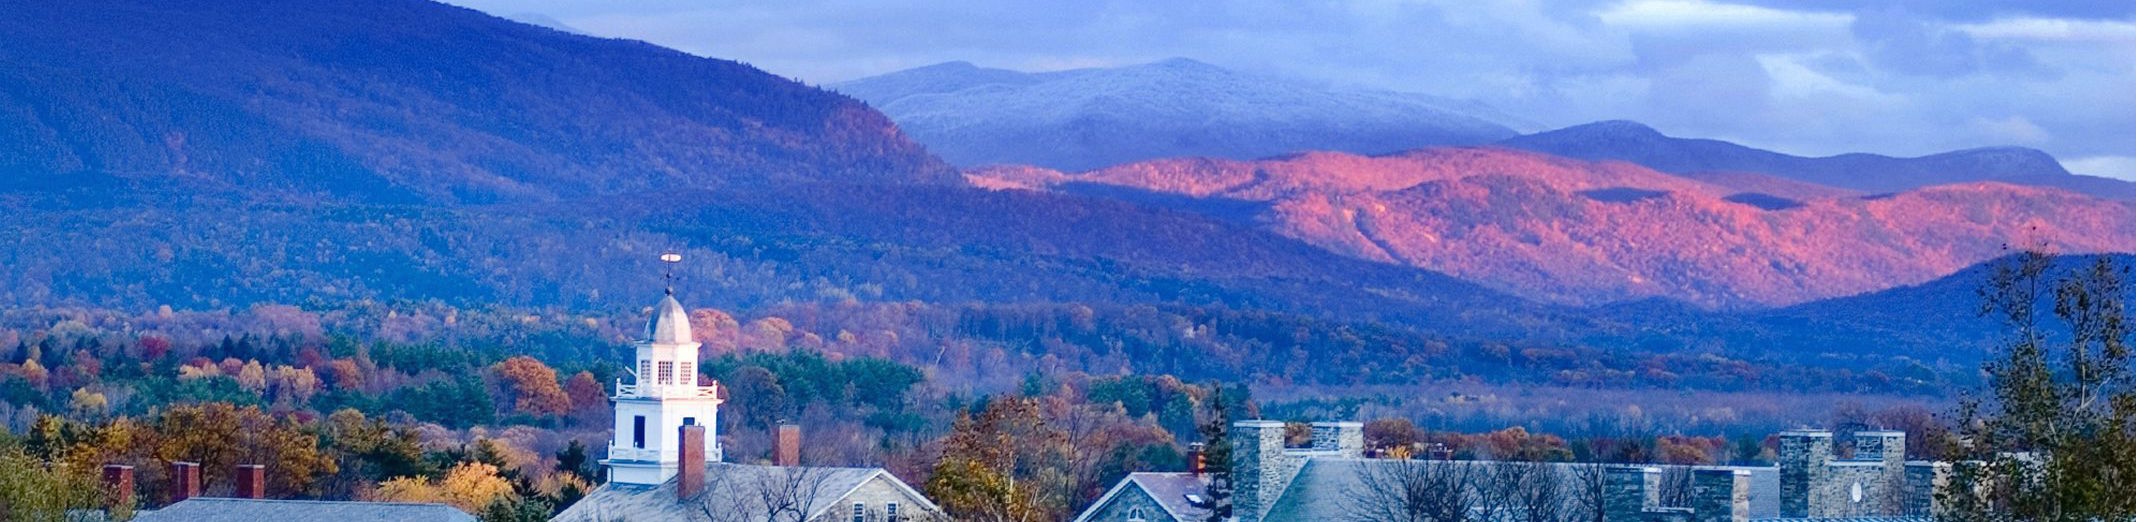
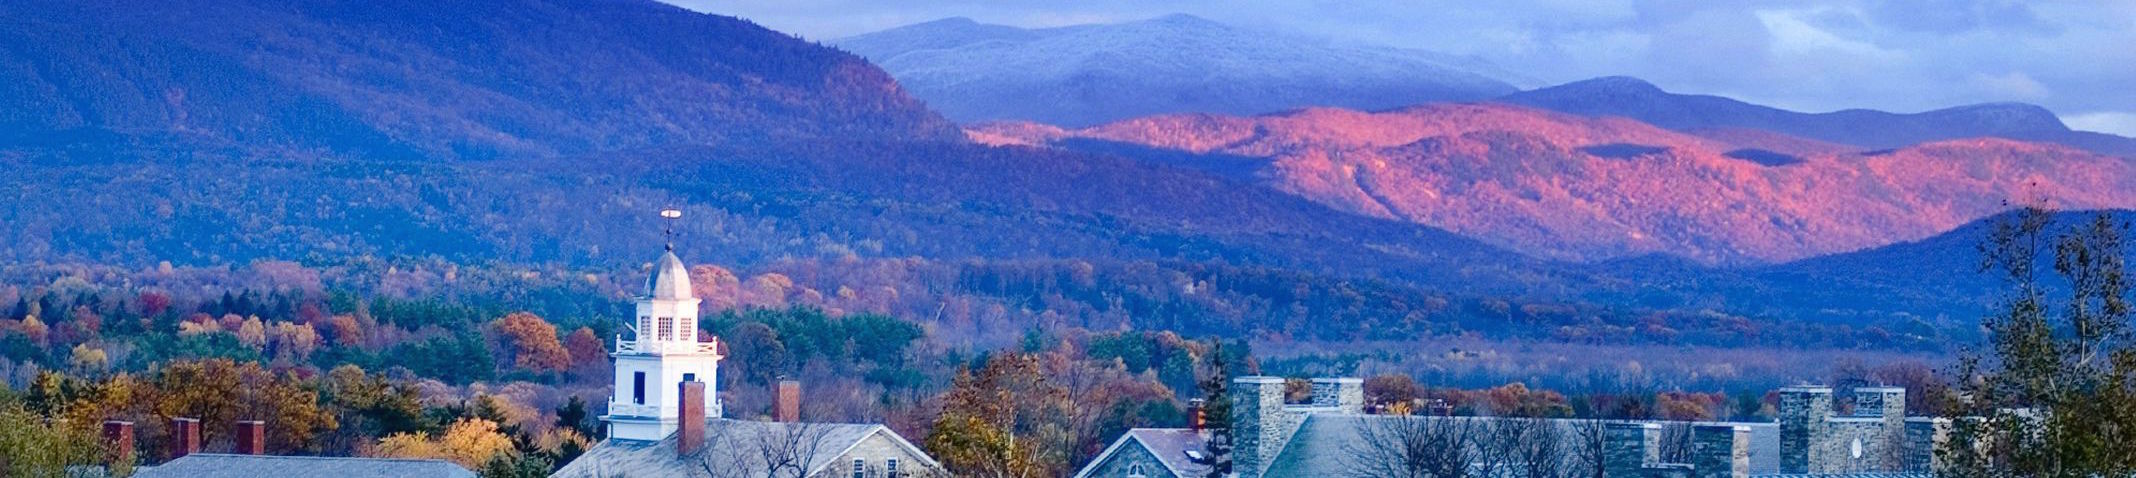
stable version that I don't hate

diff --git a/index.html b/index.html
@@ -10,10 +10,11 @@
 	</head>
 	<body>
 
-		<div class="text-center header">
+
+		<div class="hero">
 			<h1 class="name">SAM HAGE</h1>
-			<span class="address">Box 3195 Middlebury College, Middlebury VT, 05753</span>
-			<span class="fa fa-diamond divider"></span>
+			<hr class="name-separator text-center"/>
+			<!-- <span class="subtitle">Aspiring full stack developer</span> -->
 			<div class="profiles">
 				<a href="mailto:shage001@gmail.com">
 					<span class="email contact-icon fa fa-envelope"></span><span>shage001@gmail.com</span>
@@ -25,20 +26,32 @@
 					<span class="linkedin contact-icon fa fa-linkedin-square"></span><span>linkedin.com/in/samhage</span>
 				</a>
 			</div>
+			<span class="fa fa-diamond divider"></span>
+			<span class="address">Box 3195 Middlebury College, Middlebury VT, 05753</span>
 		</div>
 
-		<div class="midd-sunset">
+		<!-- <div class="midd-sunset container"> -->
 			<!-- <span class="helper"></span> -->
 			<!-- <img src="http://www.cs.middlebury.edu/~shage/assets/midd-sunset.jpg"> -->
-			<img src="assets/midd-sunset.jpg">
-		</div>
+			<!-- <img class="sunset" src="assets/midd-sunset.jpg"> -->
+		<!-- </div> -->
 
-		<div class="about text-center">
+		<div class="section about text-center">
 			<h2>ABOUT</h2>
-			<p>Middlebury College class of 2016. Studying computer science and German. Aspiring full stack engineer. Captain of the frisbee team. Wish I could play a real sport.</p>
+			<p>Graduating from Middlebury College with a degree in computer science and German. Aspiring full stack engineer (whatever that means). I like crosswords and Chopin, and I'm captain of the frisbee team. Wish I could play a real sport.</p>
 		</div>
 
-		<div class="work text-center">
+		<!-- <div class="photos container">
+			<img class="photo" src="assets/lennon.jpg">
+			<img class="photo" src="assets/axes.jpg">
+			<img class="photo" src="assets/tibet.jpg">
+			<img class="photo" src="assets/team.jpg">
+			<img class="photo" src="assets/everest.jpg">
+			<img class="photo" src="assets/emerald-lake.jpg">
+			<img class="photo" src="assets/alex.jpg">
+		</div> -->
+
+		<div class="section work text-center">
 			<h2>WORK</h2>
 			<div class="projects">
 

diff --git a/samhage-main.css b/samhage-main.css
@@ -8,27 +8,46 @@ a {
 	color: #000;
 }
 
-img {
-	width: 100%;
-	/*height: 100%;*/
-	/*display: block;*/
-	/*vertical-align: middle;*/
+a:hover {
+	color: #CC3300;
+	/*color: #B82500;*/
 }
 
-a:hover {
-	color: #B82500;
+.profiles a {
+	color: #fff;
+}
+
+.profiles a:hover {
+	color: #CC3300;
+	/*color: #B82500;*/
+}
+
+h1 {
+	font-size: 3em;
+	font-weight: 100;
+	margin: 0;
+	/*line-height: 1em;*/
 }
 
 .text-center {
 	text-align: center;
 }
 
-.header {
-	margin: 1em;
+.name-separator {
+	width: 10%;
+	border: 0;
+	color: #fff;
+	background-color: #fff;
+	height: 1px;
+	margin-bottom: 1em;
 }
 
-.address {
-	display: block;
+.subtitle {
+	font-style: italic;
+}
+
+.section {
+	margin-top: 2em;
 }
 
 .contact-icon {
@@ -40,11 +59,32 @@ a:hover {
 	margin: .5em 0 .5em 0;
 }
 
-.midd-sunset {
+.address {
+	display: block;
+}
+
+.about {
+	margin: 0 8em;
+}
+
+.container {
 	margin: 2em 0 2em 0;
 	overflow: hidden;
-	max-height: 350px;
+}
+
+.midd-sunset {
+	max-height: 300px;
 	text-align: center;
+}
+
+.photos {
+	max-height: 150px;
+}
+
+.photo {
+	display: inline-block;
+	max-height: 150px;
+	/*height: 100%;*/
 }
 
 /*.helper {
@@ -55,6 +95,18 @@ a:hover {
 
 .project {
 	display: block;
+}
+
+.hero {
+	background-color: #555;
+	background-image: url('assets/midd-sunset-dark.jpg');
+	position: relative;
+	margin: 0;
+	padding: 3em 1em;
+	text-align: center;
+	background-position: center center;
+	background-size: cover;
+	color: white;
 }
 
 
